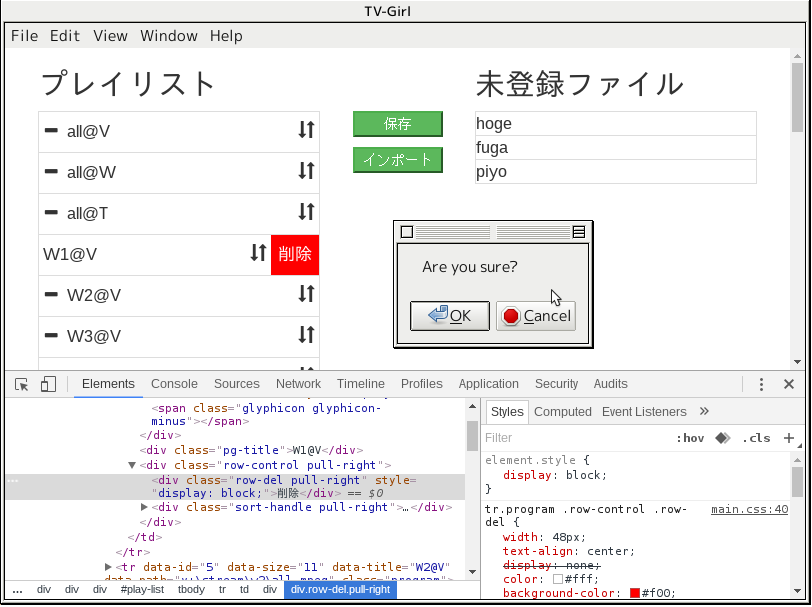
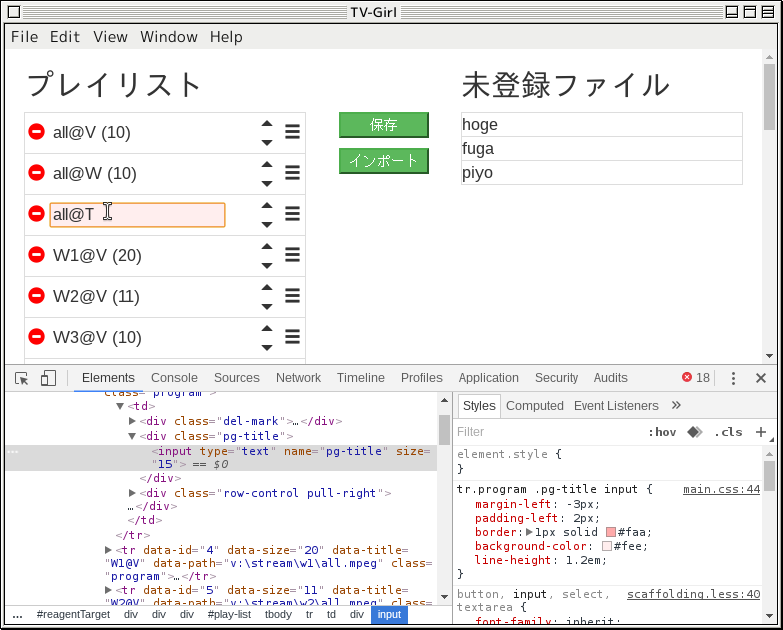
Readme for sprint#3

Changed region(s): [[0.0, 0.0, 1.0, 1.0], [0.5824, 0.089, 0.9502, 0.2965], [0.4291, 0.1779, 0.5517, 0.2965]]

diff --git a/README.md b/README.md
@@ -4,11 +4,9 @@
 
 とあるビデオキャプチャソフトで録画した番組のプレイリストを編集するソフトを作る。
 
-### TODO(for sprint#2 or later)
+### TODO(for sprint#3 or later)
 
-- パスとファイル数(登録数/実ファイル数)を表示
-- ファイル数の変更
-- タイトル変更
+- パスとファイル数(実ファイル数)を表示
 - インポート
 - 監視
 - 監視対象フォルダ設定
